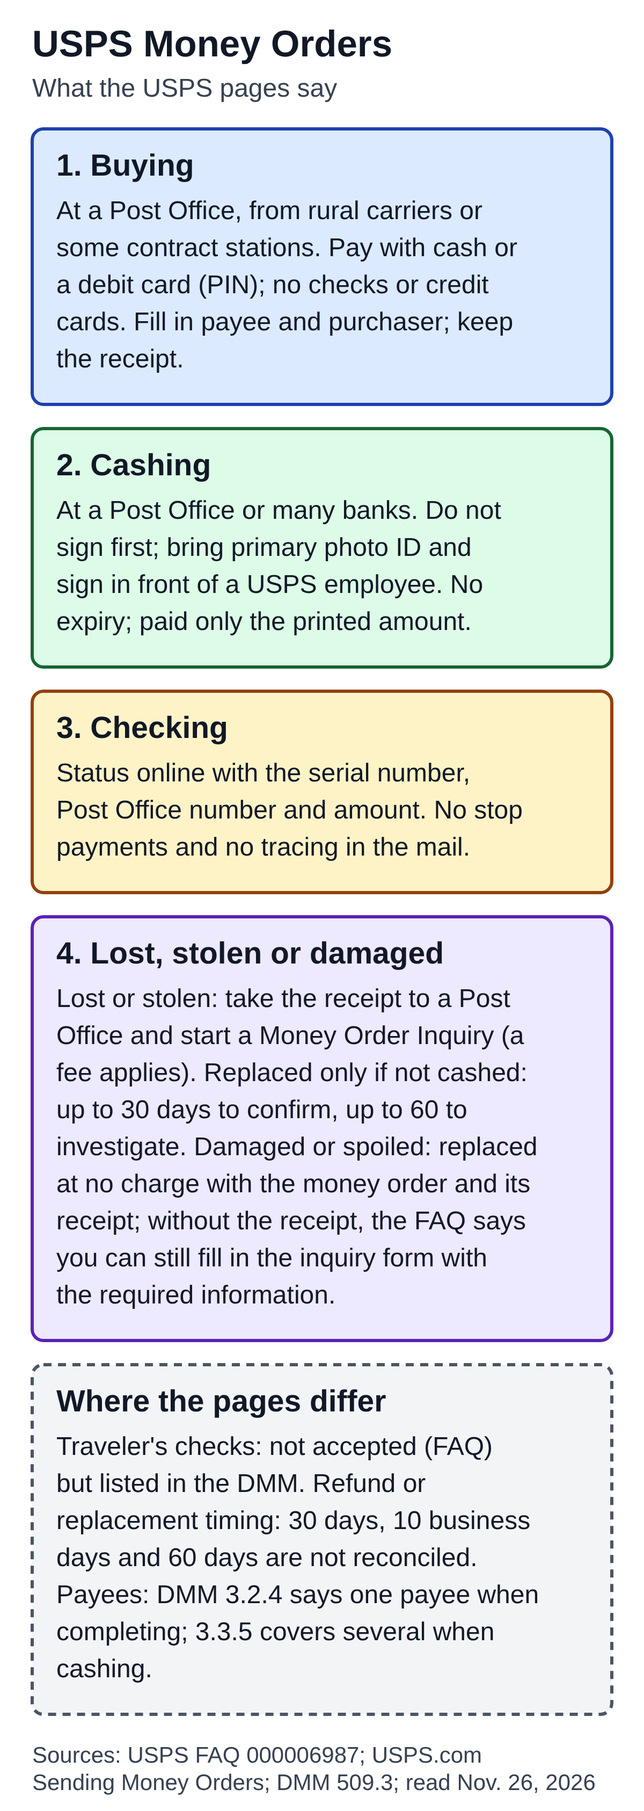
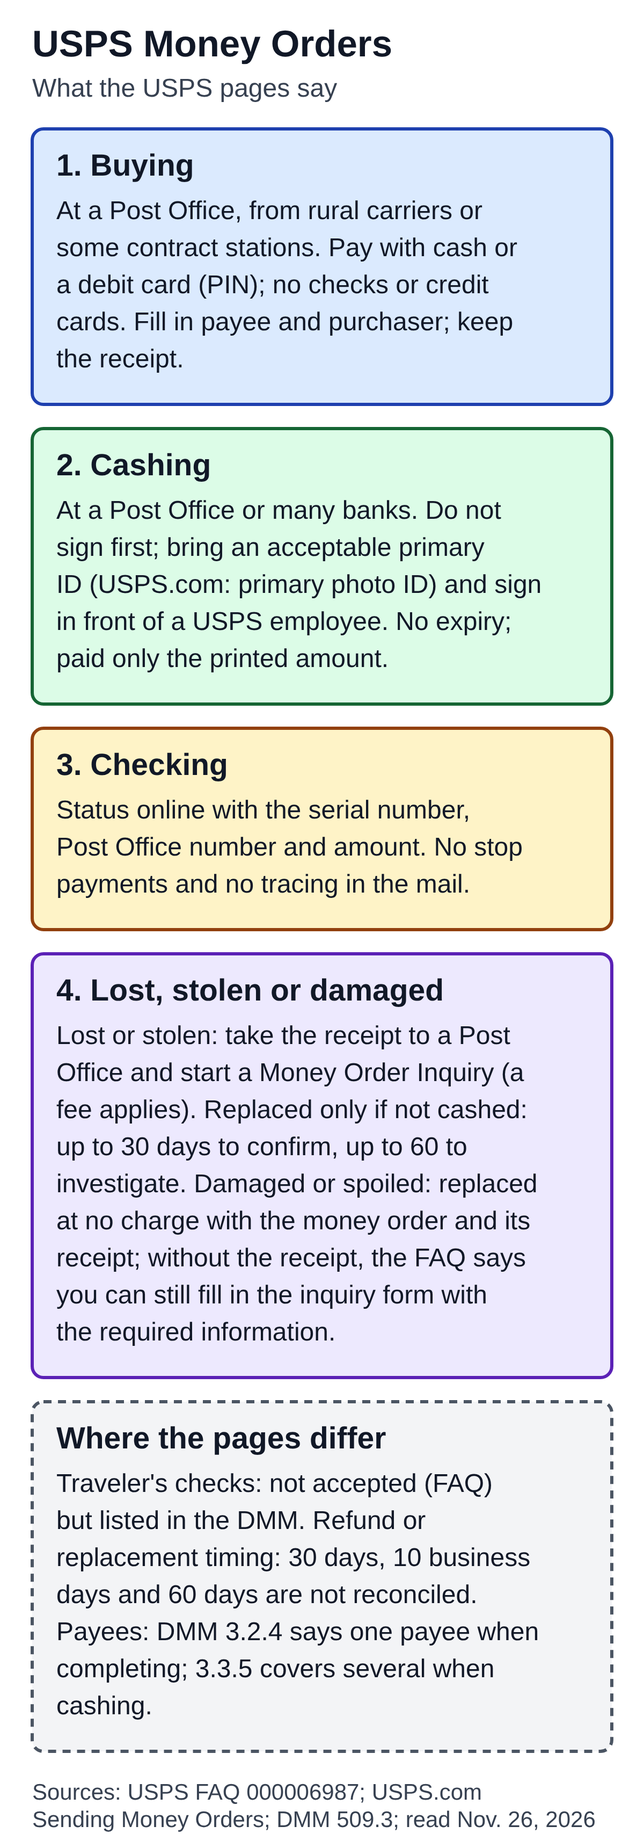
Money Orders: state FAQ and USPS.com ID wording separately; use DMM "Form 6387"
Pre-publication source re-read after Gate 2 changed-part PASS.

Claude-Session: https://claude.ai/code/session_01BXtGEA3Qzg6u2ejRb8jbFU

diff --git a/content/drafts/usps-money-order-how-it-works.md b/content/drafts/usps-money-order-how-it-works.md
@@ -8,7 +8,7 @@ status: draft
 date: 2026-11-26
 internal_link_candidates: usps-claim-how-it-works (published; a money order inquiry is separate from a mail claim). Appears once in the body; link text matches the live title.
 image: assets/optimized/usps-money-order-how-it-works.png
-image_alt: "Diagram of what USPS pages say about a postal money order. Buying: at a Post Office, from rural carriers or at some contract stations; pay with cash or a debit card with a PIN; checks and credit cards are not accepted; fill in the payee and purchaser and keep the receipt. Cashing: at a Post Office or many banks; do not sign first, bring primary photo ID and sign in front of a USPS employee; no expiry and paid only the printed amount. Checking: the status online needs the serial number, Post Office number and dollar amount; there are no stop payments and no tracing in the mail. Lost or stolen: take the receipt to a Post Office and start a Money Order Inquiry, for which a fee applies; replaced only if not cashed, with up to 30 days to confirm and up to 60 days to investigate; damaged or spoiled ones are replaced at no charge with the money order and its receipt, and without the receipt the FAQ says you can still fill in the inquiry form with the required information. The pages differ on traveler's checks and on refund and replacement timing, and the DMM has separate rules for one payee when the order is completed and several payees when it is cashed."
+image_alt: "Diagram of what USPS pages say about a postal money order. Buying: at a Post Office, from rural carriers or at some contract stations; pay with cash or a debit card with a PIN; checks and credit cards are not accepted; fill in the payee and purchaser and keep the receipt. Cashing: at a Post Office or many banks; do not sign first, bring an acceptable primary ID (USPS.com says a primary photo ID) and sign in front of a USPS employee; no expiry and paid only the printed amount. Checking: the status online needs the serial number, Post Office number and dollar amount; there are no stop payments and no tracing in the mail. Lost or stolen: take the receipt to a Post Office and start a Money Order Inquiry, for which a fee applies; replaced only if not cashed, with up to 30 days to confirm and up to 60 days to investigate; damaged or spoiled ones are replaced at no charge with the money order and its receipt, and without the receipt the FAQ says you can still fill in the inquiry form with the required information. The pages differ on traveler's checks and on refund and replacement timing, and the DMM has separate rules for one payee when the order is completed and several payees when it is cashed."
 ---
 
 # USPS Money Orders: How to Buy, Cash and Replace One
@@ -17,11 +17,11 @@ image_alt: "Diagram of what USPS pages say about a postal money order. Buying: a
 
 This article uses the USPS FAQ "Money Orders - The Basics" (Article 000006987, dated June 10, 2026), the USPS.com page "Sending Money Orders" (no update date shown) and section 3.0 of Domestic Mail Manual (DMM) 509, "Other Services" (no update date shown), all read on November 26, 2026. The pages state fees, a maximum amount for a single domestic money order and amounts at which extra paperwork applies; this article gives none of those figures.
 
-![Diagram of what USPS pages say about a postal money order. Buying: at a Post Office, from rural carriers or at some contract stations; pay with cash or a debit card with a PIN; checks and credit cards are not accepted; fill in the payee and purchaser and keep the receipt. Cashing: at a Post Office or many banks; do not sign first, bring primary photo ID and sign in front of a USPS employee; no expiry and paid only the printed amount. Checking: the status online needs the serial number, Post Office number and dollar amount; there are no stop payments and no tracing in the mail. Lost or stolen: take the receipt to a Post Office and start a Money Order Inquiry, for which a fee applies; replaced only if not cashed, with up to 30 days to confirm and up to 60 days to investigate; damaged or spoiled ones are replaced at no charge with the money order and its receipt, and without the receipt the FAQ says you can still fill in the inquiry form with the required information. The pages differ on traveler's checks and on refund and replacement timing, and the DMM has separate rules for one payee when the order is completed and several payees when it is cashed.](assets/optimized/usps-money-order-how-it-works.png)
+![Diagram of what USPS pages say about a postal money order. Buying: at a Post Office, from rural carriers or at some contract stations; pay with cash or a debit card with a PIN; checks and credit cards are not accepted; fill in the payee and purchaser and keep the receipt. Cashing: at a Post Office or many banks; do not sign first, bring an acceptable primary ID (USPS.com says a primary photo ID) and sign in front of a USPS employee; no expiry and paid only the printed amount. Checking: the status online needs the serial number, Post Office number and dollar amount; there are no stop payments and no tracing in the mail. Lost or stolen: take the receipt to a Post Office and start a Money Order Inquiry, for which a fee applies; replaced only if not cashed, with up to 30 days to confirm and up to 60 days to investigate; damaged or spoiled ones are replaced at no charge with the money order and its receipt, and without the receipt the FAQ says you can still fill in the inquiry form with the required information. The pages differ on traveler's checks and on refund and replacement timing, and the DMM has separate rules for one payee when the order is completed and several payees when it is cashed.](assets/optimized/usps-money-order-how-it-works.png)
 
 ## Buying a money order
 
-The FAQ says domestic money orders can be bought at any Post Office, from rural carriers and at some contract stations, and that military money orders must be bought at an APO, FPO or DPO facility. The DMM adds that rural and authorized highway contract route carriers sell them: the customer fills out PS Form 6387, hands it and the payment to the carrier, and the carrier delivers the money order on the next trip unless the customer pays for mailing.
+The FAQ says domestic money orders can be bought at any Post Office, from rural carriers and at some contract stations, and that military money orders must be bought at an APO, FPO or DPO facility. The DMM adds that rural and authorized highway contract route carriers sell them: the customer fills out Form 6387, hands it and the payment to the carrier, and the carrier delivers the money order on the next trip unless the customer pays for mailing.
 
 For payment, the FAQ lists U.S. currency and coins and ATM or debit cards at locations where the customer's PIN is entered on a keypad. It says checks are not accepted, credit cards may not be used and traveler's checks are no longer accepted. USPS.com says to take cash or a debit card and that you cannot pay with a credit card.
 
@@ -31,7 +31,7 @@ The DMM says the purchaser completes the money order and the customer's receipt 
 
 USPS.com says you can cash a postal money order at a Post Office for free and can also cash it at most banks and some stores, and that rural carriers may cash them if they have enough money on hand. The FAQ says cashing at a Post Office depends on the funds available at that location, and that a question about whether a particular bank will cash one has to go to that bank.
 
-The FAQ and USPS.com give the same steps: do not sign the money order before cashing, bring an acceptable primary photo ID, and sign it at the counter in front of a USPS employee. The DMM says customers must sign in the presence of a USPS employee, that acceptable ID can be required, and that USPS may refuse payment if identity is not proved to the employee's satisfaction. It also sets rules about who may be paid. Section 3.3.5 covers a money order that was completed with more than one payee: it is paid to either payee if the conjunction "or" connects them, and all listed payees must endorse it if "and" or no conjunction is used. The DMM does not say how this fits with the single-party wording of section 3.2.4, which is about how the purchaser completes the order. A money order payable to an organization must be signed in its name by an authorized representative, and a person who cashes it for someone else needs, for example, a power of attorney filed at the Post Office. The DMM says domestic money orders are paid regardless of age and are not interest-bearing, and the FAQ says they never expire.
+The FAQ and USPS.com give the same steps: do not sign the money order before cashing, bring identification, and sign it at the counter in front of a USPS employee. The FAQ says an acceptable primary form of identification is required; USPS.com says to take a primary photo ID. The DMM says customers must sign in the presence of a USPS employee, that acceptable ID can be required, and that USPS may refuse payment if identity is not proved to the employee's satisfaction. It also sets rules about who may be paid. Section 3.3.5 covers a money order that was completed with more than one payee: it is paid to either payee if the conjunction "or" connects them, and all listed payees must endorse it if "and" or no conjunction is used. The DMM does not say how this fits with the single-party wording of section 3.2.4, which is about how the purchaser completes the order. A money order payable to an organization must be signed in its name by an authorized representative, and a person who cashes it for someone else needs, for example, a power of attorney filed at the Post Office. The DMM says domestic money orders are paid regardless of age and are not interest-bearing, and the FAQ says they never expire.
 
 ## Checking the status
 

diff --git a/docs/content-backlog.md b/docs/content-backlog.md
@@ -81,7 +81,7 @@ Pilot 12 plan: 12 published + 0 ready + 0 draft + 0 briefs = 12 slots, 4 per lan
 | 45 | `usps-general-delivery-how-it-works` | USPS General Delivery: How to Receive Mail Without a Permanent Address | `usps general delivery` | (handed-over first draft from commit `6e09600`, rewritten here; Gate 1 done by Claude: FAQ 30 of 30, DMM 14 of 14 phrase checks, 3 image checks; **published 2026-11-26 09:00 KST (live QA passed about 09:20 KST)** (WordPress post 178, media 177; pushed in `d955818`; Gate 2 round 1 = PASS on `d955818` (user-reported 2026-11-25); moved to ready 2026-11-25; both sources re-read right before scheduling with no important change; built from the repository files; editor 0 invalid blocks; 375 and 320 px checked; scheduled at 00:00 UTC on 2026-11-26; live QA after it appears) | post-pilot (not counted) | Lane: postal service and stamps. One of two posts for the 2026-11-26 slots (General Delivery 9 AM KST, Registered Mail 3 PM KST). Sources: FAQ 000006989 (Aug 4, 2026), DMM 508 sections 6.0 and 11.1 (no date). Demand: handed-over Trends note (0.09 of its anchor over 90 days, 0.2 over 28 days), not re-measured, search volume not checked. No prices (free where authorized). Differences shown: longer hold and 10 or 15 day note (FAQ only), restrict against refuse or restrict, four purposes against two. Two internal links (PO Box, Hold Mail). Re-read both sources right before publishing. |
 | 46 | `usps-registered-mail-how-it-works` | USPS Registered Mail: Security, Tracking and Delivery Explained | `usps registered mail` | **published 2026-11-26 15:00 KST (live QA passed about 15:20 KST)** (WP post 181, media 180; Gate 2 round 4 on `750caf5` = PASS; sources re-read 2026-11-25 with no change; editor 0 invalid blocks; 375 and 320 px checked; file moved to `content/ready/`; the Return Receipt link needs post 174 to be public first; Return Receipt link returned 200) | post-pilot (not counted) | Lane: postal service and stamps. Second of two posts for the 2026-11-26 slots (3 PM KST). Sources: FAQ 000006061 (May 14, 2025), DMM 503 section 2.0 (no date), FAQ 000007968 (May 19, 2026, one row). Demand: handed-over Trends note (0.2 of its anchor over 90 days, 0.35 over 28 days), not re-measured, search volume not checked. No prices, fees or insurance amounts. Differences shown: the word receipt, eligible classes, 14 or more days against 15 days. Five internal links (Certified Mail, claims, tracking status, Return Receipt, Missing Mail); the Return Receipt post must be public first. Re-read all three sources right before publishing. |
 | 47 | `usps-change-of-address-how-it-works` | USPS Change of Address: How to File, Who Can File and What Happens Next | `usps change of address` | **scheduled 2026-11-27 09:00 KST** (WP post 184, media 183, status `future` re-read after saving; Gate 2 PASS after two FIX rounds (`3cf9bce`, `5ec4d21`); sources re-read 2026-11-26 with no change; editor 0 invalid blocks; 375 and 320 px checked; file moved to `content/ready/`; live QA after publication) | post-pilot (not counted) | Lane: postal service and stamps. First of four posts for 2026-11-27 and 2026-11-28 (slot 2026-11-27 9 AM KST). Sources: FAQ 000005313 (Oct 15, 2026), USPS.com Standard Forward Mail page (no date). Demand: relative Trends index only (highest of the surveyed USPS phrases), search volume not checked; see `docs/next-candidates-2026-11-26.md`. No prices or fees (both pages state the identity verification fee; not used). Two timing details shown without calling them conflicts (after Gate 2 round 1 FIX): the 7-10 days (after approval vs after the start date) and temporary forwarding periods. Three internal links (forwarding, Informed Delivery, Hold Mail). Re-read both sources right before publishing. |
-| 48 | `usps-money-order-how-it-works` | USPS Money Orders: How to Buy, Cash and Replace One | `usps money order` | **draft 2026-11-26** (Gate 1 done by Claude: FAQ 46 of 48 (2 phrase typos of mine), USPS.com page 31 of 31 and DMM 509.3 24 of 24 phrase checks, 3 image checks; Gate 2 round 1 = FIX (payee rules by DMM clause; no-receipt wording), fixed 2026-11-26, waiting for Gate 2 on the changed parts; not moved to ready; nothing built in WordPress) | post-pilot (not counted) | Lane: postal service and stamps. Second of four posts for 2026-11-27 and 2026-11-28 (slot 2026-11-27 3 PM KST). Sources: FAQ 000006987 (Jun 10, 2026), USPS.com Sending Money Orders page (no date), DMM 509 section 3.0 (no date). **User instruction 2026-11-26: leave out the single-order limit amount**; the article also leaves out fees and every other amount. Demand: relative Trends index only (about 0.13 x the change-of-address phrase), search volume not checked. Differences shown: traveler's checks; one payee (DMM 3.2.4) or several (3.3.5); refund and replacement timing; where to buy. One internal link (claims). Re-read all three sources right before publishing. |
+| 48 | `usps-money-order-how-it-works` | USPS Money Orders: How to Buy, Cash and Replace One | `usps money order` | **draft 2026-11-26** (Gate 1 done by Claude: FAQ 46 of 48 (2 phrase typos of mine), USPS.com page 31 of 31 and DMM 509.3 24 of 24 phrase checks, 3 image checks; Gate 2 round 1 = FIX (payee rules by DMM clause; no-receipt wording), fixed 2026-11-26, changed parts PASS; pre-publication re-read 2026-11-26 corrected the ID wording (FAQ: acceptable primary form of identification; USPS.com: primary photo ID) and "Form 6387", waiting for Gate 2 on that change; not moved to ready; nothing built in WordPress) | post-pilot (not counted) | Lane: postal service and stamps. Second of four posts for 2026-11-27 and 2026-11-28 (slot 2026-11-27 3 PM KST). Sources: FAQ 000006987 (Jun 10, 2026), USPS.com Sending Money Orders page (no date), DMM 509 section 3.0 (no date). **User instruction 2026-11-26: leave out the single-order limit amount**; the article also leaves out fees and every other amount. Demand: relative Trends index only (about 0.13 x the change-of-address phrase), search volume not checked. Differences shown: traveler's checks; one payee (DMM 3.2.4) or several (3.3.5); refund and replacement timing; where to buy. One internal link (claims). Re-read all three sources right before publishing. |
 | 49 | `usps-customer-service-how-to-contact` | USPS Customer Service: How to Phone, Email or File a Complaint | `usps customer service` | **draft 2026-11-26** (Gate 1 done by Claude: USPS.com Contact Us 34 of 34, Email Us 18 of 18, USAGov 22 of 23 (1 phrase typo of mine) phrase checks, 3 image checks; waiting for Gate 2; not moved to ready; nothing built in WordPress) | post-pilot (not counted) | Lane: postal service and stamps. **Replaces USPS Insurance** in the third slot (2026-11-28 9 AM KST): the Insurance pages are mostly amounts and overlap the claims and Priority Mail vs Ground Advantage posts; reported to the user on 2026-11-26. Sources: USPS.com Contact Us (no date), USPS Email Us (no date), USAGov complaint page (updated Sep 4, 2026). Demand: relative Trends index only (about 0.62 x the change-of-address phrase), search volume not checked. No prices or fees; phone numbers and hours dated. Differences shown: mail theft, Informed Delivery help, tracking questions, TTY. Two internal links (tracking status, missing mail search). Re-read all three sources right before publishing (numbers and hours can change). |
 | 50 | `usps-free-shipping-supplies-how-it-works` | USPS Free Boxes and Envelopes: What You Can Order and the Rules That Apply | `usps free boxes` | **draft 2026-11-26** (Gate 1 done by Claude: Postal Store listing 29 of 29, nine product pages 54 of 54, Contact Us supply line 4 of 4 phrase checks, 3 image checks; waiting for Gate 2; not moved to ready; nothing built in WordPress) | post-pilot (not counted) | Lane: postal service and stamps. Fourth of four posts for 2026-11-27 and 2026-11-28 (slot 2026-11-28 3 PM KST). Sources: Postal Store Free Shipping Supplies listing and nine product pages (no update dates), USPS.com Contact Us (no date). Demand: relative Trends index only (about 0.07 x the change-of-address phrase), search volume not checked. No prices, fees or insurance amounts. Differences shown: Dual-Use tube, APO/FPO box, similar prepaid boxes that are not free. Four internal links (package pickup, certified mail, registered mail, customer service); the customer-service post must be public first. Re-read all sources right before publishing (stock and maximums change). |
 

diff --git a/editorial/qa/usps-money-order-how-it-works.md b/editorial/qa/usps-money-order-how-it-works.md
@@ -1,8 +1,8 @@
 # QA — USPS Money Orders
 
-Article: `content/drafts/usps-money-order-how-it-works.md` (draft, 2026-11-26, about 1,510 words including sources, one H1, Sources included; meta description 137 characters; alt text 1,166 characters).
+Article: `content/drafts/usps-money-order-how-it-works.md` (draft, 2026-11-26, about 1,510 words including sources, one H1, Sources included; meta description 137 characters; alt text 1,209 characters).
 
-Stage: draft. Gate 1 (Claude) run on 2026-11-26. Gate 2 round 1 = FIX (two points, fixed 2026-11-26, see below); waiting for Gate 2 on the changed parts. Backlog row 48.
+Stage: draft. Gate 1 (Claude) run on 2026-11-26. Gate 2 round 1 = FIX (two points, fixed 2026-11-26, see below); Gate 2 round 1 changed parts = PASS (commit `91d5b5f`). Pre-publication source re-read (2026-11-26) found one small wording difference, fixed (see below); waiting for Gate 2 on that change. Backlog row 48.
 
 ## Gate 1 — claim groups
 - FAQ 000006987 (Jun 10, 2026): 46 of 48 phrases found (2 phrase typos of mine, verified on the page).
@@ -21,8 +21,11 @@ Gate 2 compared the article with the DMM: (1) Payees: the buying section cites D
 Fix: (1) Buying: now says 3.2.4, on how the purchaser completes the order, requires a single identifiable payee, and that 3.3.5, on cashing, separately covers more than one payee. Cashing: the "or" / "and" / no-conjunction rule is attributed to 3.3.5 and the article says the DMM does not say how it fits with 3.2.4. New bullet "One payee or several" in "Where the USPS pages differ" (DMM 3.2.4 against 3.3.5; different steps, not reconciled). (2) Re-read the FAQ: the no-receipt sentence ("you may still complete inquiry form with all of the required information and return it to the window clerk") sits in the FAQ's steps for spoiled or damaged money orders, not in its lost or stolen steps, which say to take the receipt. The body now says exactly that (damaged or spoiled only; not repeated for lost or stolen). Diagram card 4 now separates the two: lost or stolen, take the receipt; damaged or spoiled, replaced with the money order and receipt, and without the receipt the FAQ says the inquiry form can still be filled in. Alt text rewritten to match; front matter and Markdown alt text identical. Diagram card "Where the pages differ" has a payees line.
 Re-checked on the pages 2026-11-26: DMM 509 5 of 5 new phrases (3.2.4 heading and sentence, 3.3.5 heading, the "or" and "and"/no-conjunction sentences); FAQ no-receipt sentence and the lost or stolen steps read directly.
 
+## Pre-publication re-read — ID wording and form name (post-PASS correction)
+FAQ 000006987 says an "acceptable primary form of identification" is required to cash; the USPS.com page says to take a primary photo ID. The article had merged both into "acceptable primary photo ID" and said the FAQ and USPS.com "give the same steps". Fix: the body now says "bring identification" in the shared steps, then "The FAQ says an acceptable primary form of identification is required; USPS.com says to take a primary photo ID." Diagram card 2 reads "bring an acceptable primary ID (USPS.com: primary photo ID)"; alt text matches (front matter and Markdown alt text identical). "PS Form 6387" in the body is now "Form 6387", the DMM 509.3 wording. Nothing else changed; the DMM payee and no-receipt wording that passed Gate 2 is untouched. Re-read in full: FAQ phrases (6 apparent misses verified as wording differences), USPS.com page (payment, status, 30 and 60 days, designs), DMM 509.3 (3.2.1, 3.2.3, 3.2.4, 3.3.1, 3.3.3, 3.3.5). Not re-read after the fix: the four spot-a-fake checks on USPS.com, which the article states unchanged from Gate 1.
+
 ## Image checks
-PNG 1200 x 3372 px, 626839 bytes, SHA-256 prefix `73d8785813052cbd`; SVG 6213 bytes; md 12361 bytes, `1a8d811591096d1e` (after the Gate 2 fix; before: PNG 3027 px `3c4a2e6a0efcd892`, md `f60ca658e975a336`); C2PA chunk and metadata stripped on the device. The rendering script printed no text past the right margin; the PNG was viewed. Diagram text only repeats facts from the article; alt text matches the front matter and the Markdown alt text.
+PNG 1200 x 3441 px, 643454 bytes, SHA-256 prefix `d747d458a2e76edd`; SVG 6373 bytes; md 12541 bytes, `30e4460968e1a9fa` (after the ID-wording fix; after the Gate 2 fix: PNG 3372 px `73d8785813052cbd`, md `1a8d811591096d1e`; first draft: before: PNG 3027 px `3c4a2e6a0efcd892`, md `f60ca658e975a336`); C2PA chunk and metadata stripped on the device. The rendering script printed no text past the right margin; the PNG was viewed. Diagram text only repeats facts from the article; alt text matches the front matter and the Markdown alt text.
 
 ## Not checked
-Search volume; fees and notices (Notice 123); DMM 509 beyond 3.0; WordPress (no draft or schedule exists); mobile and editor checks (after Gate 2 PASS); the pre-publication source re-read.
+Search volume; fees and notices (Notice 123); DMM 509 beyond 3.0; WordPress (no draft or schedule exists); mobile and editor checks (after Gate 2 PASS); the USPS.com spot-a-fake checks after the fix (unchanged text).

diff --git a/research/sources/usps-money-order-how-it-works.md b/research/sources/usps-money-order-how-it-works.md
@@ -8,7 +8,7 @@ Retrieved **2026-11-26** by Cowork (Claude) in the built-in browser; text read b
 
 ## S2 — USPS.com, "Sending Money Orders" (no update date shown; primary, official)
 - https://www.usps.com/shop/money-orders.htm . Opened and read in full. 31 of 31 phrase checks pass.
-- Covers: how to send (cash or debit card; no credit card), cashing steps (do not sign; primary photo ID; sign at the counter; free at a Post Office; most banks and some stores; rural carriers if cash is on hand), status check items, lost or stolen (no stop payment; 30 and 60 days; inquiry at the counter; replacement), damaged replacement, how to spot a fake (4 valid designs; amount checks; watermark check; QR code; verify; report to the Postal Inspection Service). Fees, the replacement fee and the single-order maximum on this page are not used.
+- Covers: how to send (cash or debit card; no credit card), cashing steps (do not sign; take a primary photo ID, while the FAQ says an acceptable primary form of identification; sign at the counter; free at a Post Office; most banks and some stores; rural carriers if cash is on hand), status check items, lost or stolen (no stop payment; 30 and 60 days; inquiry at the counter; replacement), damaged replacement, how to spot a fake (4 valid designs; amount checks; watermark check; QR code; verify; report to the Postal Inspection Service). Fees, the replacement fee and the single-order maximum on this page are not used.
 
 ## S3 — USPS, DMM 509 "Other Services", section 3.0 Money Orders (no update date shown; primary, official)
 - https://pe.usps.com/text/dmm300/509.htm . Section 3.0 read in 3.1 to 3.3.6 (to the point of payment to another party). 24 of 24 phrase checks pass.

diff --git a/docs/decision-log.md b/docs/decision-log.md
@@ -1674,3 +1674,7 @@ Gate 2 asked for two corrections. Payees: the DMM states a single identifiable p
 ## 2026-11-26 (KST) — Change of Address scheduled for 2026-11-27 9 AM KST
 
 After two Gate 2 FIX rounds and the user's whole-article PASS, both sources were re-read (no change) and the post was built from the pushed files: media 183, post 184, editor 0 invalid blocks, 375 and 320 px checked, scheduled `future` for 2026-11-27T00:00:00 UTC = 09:00 KST and re-read from WordPress. The file moved to `content/ready/`. Live QA is due about 09:20 KST on 2026-11-27. The other three posts are not scheduled (Money Orders and Customer Service/Free Boxes await Gate 2).
+
+## 2026-11-26 (KST) — Money Orders: ID wording corrected in the pre-publication re-read
+
+Gate 2 passed the changed parts of Money Orders (`91d5b5f`). Re-reading the sources before building the WordPress draft showed one imprecision: the FAQ requires an "acceptable primary form of identification" while USPS.com says to take a primary photo ID, and the article had merged them and called the two pages identical. The body, diagram card 2 and alt text now state each page's wording; "PS Form 6387" became "Form 6387" (DMM 509.3 wording). No other change. The post is not built in WordPress or scheduled until Gate 2 has checked this change; the slot stays 2026-11-27 3 PM KST.
